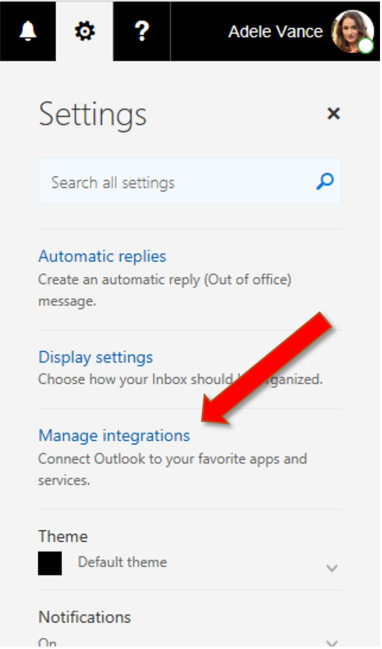
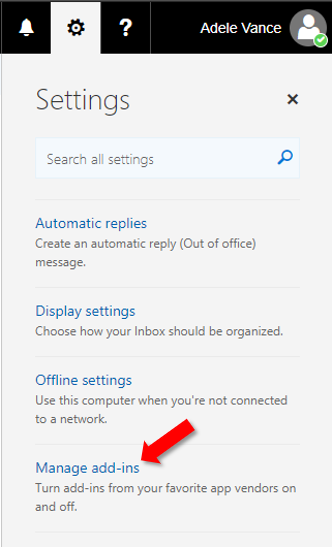
Updated sideload topic
- Corrected screenshot with menu item name for Outlook on the web
- Updated screenshots for Outlook on desktop with new UI

diff --git a/docs/add-ins/sideload-outlook-add-ins-for-testing.md b/docs/add-ins/sideload-outlook-add-ins-for-testing.md
@@ -5,7 +5,7 @@ author: jasonjoh
 
 ms.topic: article
 ms.technology: office-add-ins
-ms.date: 06/13/2017
+ms.date: 01/05/2018
 ms.author: jasonjoh
 ---
 
@@ -18,13 +18,13 @@ You can use sideloading to install an Outlook add-in for testing without having 
 
 1. Go to [Outlook in Office 365](https://outlook.office.com).
     
-1. Choose the gear icon in the top-right section and select  **Manage integrations**.
+1. Choose the gear icon in the top-right section and select  **Manage add-ins**.
     
-    ![Outlook on the web screenshot pointing to Manage integrations option](images/outlook-sideload-web-manage-integrations.PNG)
+    ![Outlook on the web screenshot pointing to Manage add-ins option](images/outlook-sideload-web-manage-integrations.PNG)
 
-1. On the  **Manage integrations** page, select **Add-Ins**, select the **Click here to add a custom add-in** link, and then select **Add from file...**.
+1. On the  **Manage add-ins** page, select **Add-Ins**, select the **Click here to add a custom add-in** link, and then select **Add from file...**.
     
-    ![Manage integrations screenshot pointing to Add from a file option](images/outlook-sideload-web-add-from-file.PNG)
+    ![Manage add-ins screenshot pointing to Add from a file option](images/outlook-sideload-web-add-from-file.PNG)
 
 1. Locate the manifest file for your custom add-in and install it. Accept all prompts during the installation.
     
@@ -36,8 +36,12 @@ You can use sideloading to install an Outlook add-in for testing without having 
 
     ![Outlook 2016 ribbon pointing to Store button](images/outlook-sideload-desktop-store.PNG)
 
-1. On the  **Store** page, select **Add-Ins**, select the **Click here to add a custom add-in** link, and then select **Add from file...**.
+1. On the **Store** page, select **Add-Ins**, then select **My add-ins**.
+
+    ![Outlook 2016 store dialog with My add-ins selected](images/outlook-sideload-store-select-add-ins.png)
+
+1. Locate the **Custom add-ins** section at the bottom of the dialog. Select the **Add a custom add-in** link, and then select **Add from file...**.
     
-    ![Store screenshot pointing to Add from a file option](images/outlook-sideload-web-add-from-file.PNG)
+    ![Store screenshot pointing to Add from a file option](images/outlook-sideload-desktop-add-from-file.PNG)
 
 1. Locate the manifest file for your custom add-in and install it. Accept all prompts during the installation.
